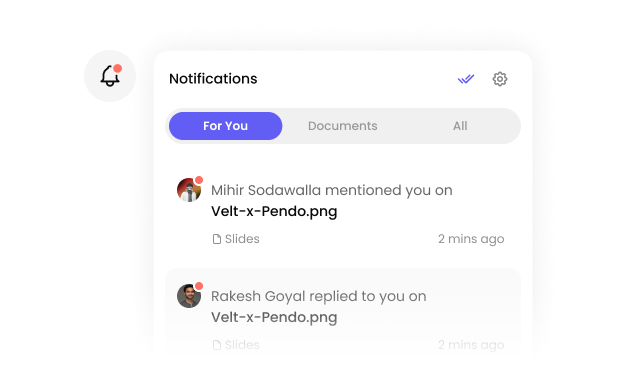
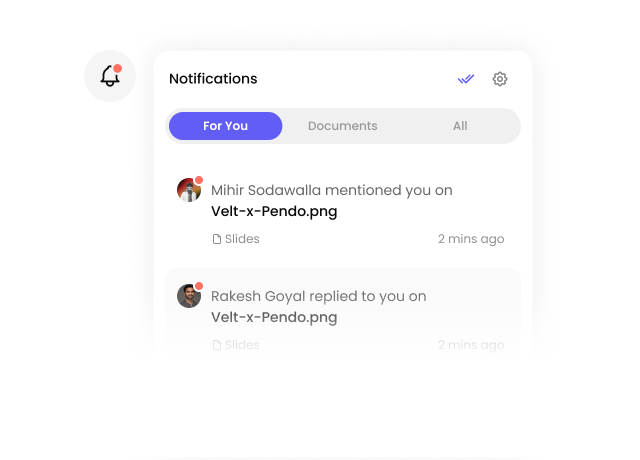
Update layout and feature grid: added overflow style to body for better layout control, adjusted dimensions of notification and recording feature cards, and replaced the Notifications image with an updated version.

diff --git a/components/home/FeaturesGrid.tsx b/components/home/FeaturesGrid.tsx
@@ -75,9 +75,9 @@ const ASYNC_CARDS: AsyncCardDef[] = [
   { src: `${FEATURE_GRID_PATH}/Comment.png`, title: "Comments", desc: "Leave precise feedback with contextual comments on any element", top: 47, left: 0, width: 640, height: 493, borderRight: true, borderBottom: true },
   { src: `${FEATURE_GRID_PATH}/AI%20Review.png`, title: "Automated AI Reviews", desc: "Help your users review their first drafts automatically", top: 47, left: 640, width: 640, height: 326, borderBottom: true },
   { src: `${FEATURE_GRID_PATH}/Annotation%20Mode.png`, title: "Annotation Mode", desc: "Mark and highlight sections", top: 540, left: 0, width: 640, height: 461, borderRight: true, borderBottom: true },
-  { src: `${FEATURE_GRID_PATH}/Notifications.png`, title: "Notifications", desc: "Get collaboration notifications or push your own", top: 373, left: 640, width: 640, height: 608, borderBottom: true },
+  { src: `${FEATURE_GRID_PATH}/Notifications.png`, title: "Notifications", desc: "Get collaboration notifications or push your own", top: 373, left: 640, width: 640, height: 530, borderBottom: true },
   { src: `${FEATURE_GRID_PATH}/View%20Analytics.png`, title: "View Analytics", desc: "Track users view activity", top: 1001, left: 0, width: 640, height: 326, borderRight: true },
-  { src: `${FEATURE_GRID_PATH}/Recording.png`, title: "Recordings", desc: "Share clearer messages and feedback with audio, video, & contextual screen recordings", top: 981, left: 640, width: 640, height: 346 },
+  { src: `${FEATURE_GRID_PATH}/Recording.png`, title: "Recordings", desc: "Share clearer messages and feedback with audio, video, & contextual screen recordings", top: 903, left: 640, width: 640, height: 424 },
 ];
 
 function AsyncGrid() {

diff --git a/app/layout.tsx b/app/layout.tsx
@@ -21,7 +21,7 @@ export default function RootLayout({
           src="https://cdn.velt.dev/lib/superflow.js?apiKey=aU1MxKP0rca2UXwKi8bl&projectId=620866069199868"
         />
       </head>
-      <body>{children}</body>
+      <body style={{ overflowX: "hidden" }}>{children}</body>
     </html>
   );
 }
